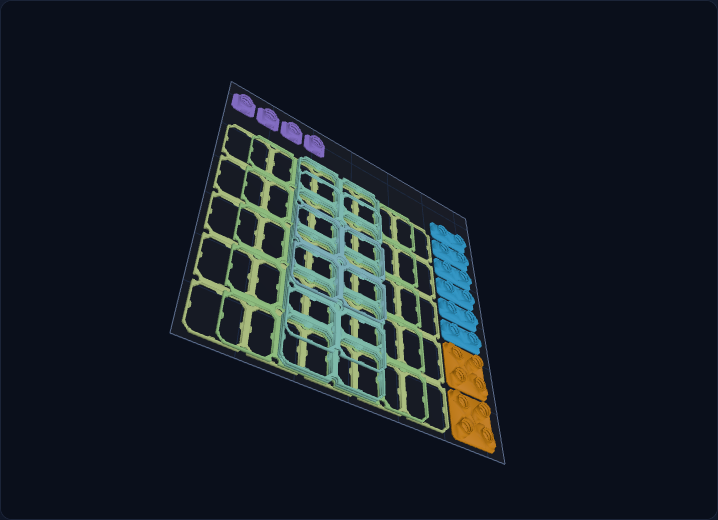
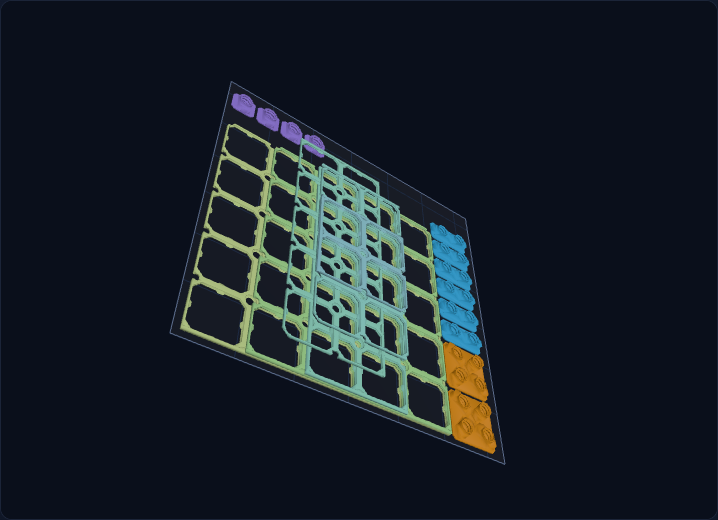
Align stacked plate grids on shared 50mm lattice and rotate non-square plates correctly

Changed region(s): [[0.2758, 0.2462, 0.6435, 0.8308], [0.2451, 0.6154, 0.3064, 0.6462]]

diff --git a/index.html b/index.html
@@ -1501,8 +1501,12 @@
     return layout.pieces.map(function (p, i) {
       return {
         id: i, a: p.w, b: p.h,
+        cw: p.w,
+        ch: p.h,
         w: p.ext ? p.ext.wmm : p.w * state.unit,
         h: p.ext ? p.ext.hmm : p.h * state.unit,
+        gx: p.ext ? p.ext.left : 0,
+        gy: p.ext ? p.ext.top : 0,
         piece: p,
         thickness: PLATE_THICKNESS[state.type] || 6.2,
         fixed: !!p.ext
@@ -1510,15 +1514,14 @@
     });
   }
 
-  function stackFit(item, base, allowRotate) {
-    if (item.w <= base.w + 1e-6 && item.h <= base.h + 1e-6) return 0;
-    if (allowRotate && item.h <= base.w + 1e-6 && item.w <= base.h + 1e-6) return 1;
+  function stackFit(item, base) {
+    if (item.cw <= base.cw + 1e-6 && item.ch <= base.ch + 1e-6) return 0;
     return -1;
   }
 
   function buildStacks(items, allowRotate, maxHeight, gap) {
     const sorted = items.slice().sort(function (x, y) {
-      return (y.w * y.h - x.w * x.h) || (Math.max(y.w, y.h) - Math.max(x.w, x.h)) || (Math.min(y.w, y.h) - Math.min(x.w, x.h));
+      return (y.cw * y.ch - x.cw * x.ch) || (Math.max(y.cw, y.ch) - Math.max(x.cw, x.ch)) || (Math.min(y.cw, y.ch) - Math.min(x.cw, x.ch));
     });
     const stacks = [];
     for (let i = 0; i < sorted.length; i++) {
@@ -1526,10 +1529,13 @@
       let placed = false;
       for (let si = 0; si < stacks.length; si++) {
         const stack = stacks[si];
-        const rot = stackFit(item, stack, allowRotate);
-        if (rot < 0) continue;
+        if (stackFit(item, stack) < 0) continue;
         if (maxHeight && stack.height + gap + item.thickness > maxHeight + 1e-6) continue;
-        stack.items.push({ item: item, rot: rot });
+        const oxCells = Math.round((stack.cw - item.cw) / 2);
+        const oyCells = Math.round((stack.ch - item.ch) / 2);
+        const dx = (stack.base.gx + oxCells * state.unit) - item.gx;
+        const dy = (stack.base.gy + oyCells * state.unit) - item.gy;
+        stack.items.push({ item: item, rot: 0, dx: dx, dy: dy });
         stack.height += gap + item.thickness;
         placed = true;
         break;
@@ -1540,10 +1546,12 @@
       }
       stacks.push({
         base: item,
+        cw: item.cw,
+        ch: item.ch,
         w: item.w,
         h: item.h,
         height: item.thickness,
-        items: [{ item: item, rot: 0 }]
+        items: [{ item: item, rot: 0, dx: 0, dy: 0 }]
       });
     }
     return { stacks: stacks };
@@ -1796,12 +1804,20 @@
       notice += " Grille remplie au maximum : le jeu réel (" + round1(Math.min(layout.leftoverW, layout.leftoverD)) + " mm) est inférieur au jeu demandé (" + round1(state.clearance) + " mm).";
     }
     if (stackCount) {
-      notice += " Empilement : " + stackCount + " pile" + (stackCount > 1 ? "s" : "") + ", espacement " + round1(state.stackGap) + " mm. Active l'ironing des surfaces supérieures dans Orca/Bambu.";
+      notice += " Empilement : " + stackCount + " pile" + (stackCount > 1 ? "s" : "") + ", espacement " + round1(state.stackGap) + " mm, grilles alignées sur la même trame de 50 mm. Active l'ironing des surfaces supérieures dans Orca/Bambu.";
     }
     el.notice.textContent = notice;
   }
 
   let threeViewer = null;
+
+  function meshRotFor(entry, w, h) {
+    const nw = entry.bbox.max[0] - entry.bbox.min[0];
+    const nh = entry.bbox.max[1] - entry.bbox.min[1];
+    if (Math.abs(nw - w) <= 1.5 && Math.abs(nh - h) <= 1.5) return 0;
+    if (Math.abs(nh - w) <= 1.5 && Math.abs(nw - h) <= 1.5) return 1;
+    return 0;
+  }
 
   async function render3D() {
     if (!lastResult || !lastResult.ok) { toast("Configure d'abord le tiroir"); return; }
@@ -1915,14 +1931,14 @@
           bin.items.forEach(function (it) {
             if (it.item.stack) {
               const stack = it.item.stack;
-              const tx = state.bedMargin + it.x + it.w / 2;
-              const ty = state.bedMargin + it.y + it.h / 2;
               let z = 0;
               stack.items.forEach(function (pi) {
                 const piece = pi.item.piece;
                 const entry = piece.ext ? edgeMeshCache.get(edgeKey(piece)) : lib.get(sizeKey(piece.w, piece.h));
                 if (!entry) return;
-                const rot = pi.rot;
+                const rot = meshRotFor(entry, pi.item.w, pi.item.h);
+                const tx = state.bedMargin + it.x + (pi.dx || 0) + pi.item.w / 2;
+                const ty = state.bedMargin + it.y + (pi.dy || 0) + pi.item.h / 2;
                 addRotatedMesh(plateGeometry(entry), plateMaterial(piece.w, piece.h), entry.bbox, tx, ty, z, rot);
                 z += (entry.bbox.max[2] - entry.bbox.min[2]) + state.stackGap;
               });
@@ -1946,15 +1962,13 @@
           if (!entry) return;
           const geo = plateGeometry(entry);
           const material = plateMaterial(p.w, p.h);
-          const mesh = new THREE.Mesh(geo, material);
           const bb = entry.bbox;
-          const cx = (bb.min[0] + bb.max[0]) / 2;
-          const cy = (bb.min[1] + bb.max[1]) / 2;
-          const tx = p.ext ? p.ext.xmm + p.ext.wmm / 2 : lastResult.offX + p.x * state.unit + p.w * state.unit / 2;
-          const ty = p.ext ? p.ext.ymm + p.ext.hmm / 2 : lastResult.offY + p.y * state.unit + p.h * state.unit / 2;
-          mesh.position.set(tx - cx, ty - cy, -bb.min[2]);
+          const plateW = p.ext ? p.ext.wmm : p.w * state.unit;
+          const plateH = p.ext ? p.ext.hmm : p.h * state.unit;
+          const tx = p.ext ? p.ext.xmm + plateW / 2 : lastResult.offX + p.x * state.unit + p.w * state.unit / 2;
+          const ty = p.ext ? p.ext.ymm + plateH / 2 : lastResult.offY + p.y * state.unit + p.h * state.unit / 2;
+          addRotatedMesh(geo, material, bb, tx, ty, 0, meshRotFor(entry, plateW, plateH));
           plateTop = Math.max(plateTop, bb.max[2] - bb.min[2]);
-          scene.add(mesh);
         });
 
         if (hasClips) {
@@ -2478,19 +2492,15 @@
               meshIndex.set(key, meshes.length + 1);
               meshes.push({ key: key, entry: entry });
             }
-            const rot = pi.rot ? 1 : 0;
-            const instW = rot ? pi.item.h : pi.item.w;
-            const instH = rot ? pi.item.w : pi.item.h;
             instances.push({
               bin: binIndex,
-              x: baseX + (baseW - instW) / 2,
-              y: baseY + (baseH - instH) / 2,
-              w: instW,
-              h: instH,
+              x: baseX + (pi.dx || 0),
+              y: baseY + (pi.dy || 0),
+              w: pi.item.w,
+              h: pi.item.h,
               entry: entry,
               mesh: meshIndex.get(key),
               ext: !!piece.ext,
-              rotExplicit: rot,
               zOffset: stackZ,
               label: (piece.ext ? baseKey + " + bord" : baseKey) + " · pile " + (layerIndex + 1) + "/" + stack.items.length,
               wid: 2 + instanceId * 2,
@@ -2578,7 +2588,6 @@
 
       let rot = 0;
       if (inst.rotExplicit !== undefined) rot = inst.rotExplicit;
-      else if (inst.ext) rot = 0;
       else if (Math.abs(nativeW - inst.w) <= 1.5 && Math.abs(nativeH - inst.h) <= 1.5) rot = 0;
       else if (Math.abs(nativeH - inst.w) <= 1.5 && Math.abs(nativeW - inst.h) <= 1.5) rot = 1;
       else rot = nativeW > nativeH && inst.w < inst.h ? 1 : 0;

diff --git a/README.md b/README.md
@@ -22,7 +22,7 @@ Je précise que j'aime le système MultiBuild/MultiBoard et que ce n'est **pas u
 - Aperçu 2D avec le motif réel, les dimensions et les bords.
 - **Aperçu 3D** des maillages STL réels dans l'app (rotation/zoom), sans passer par Orca.
 - **Clips adhésifs S** (VHB Bolt-Lock) : choix « Aucun clip » / « Clips adhésifs S », comptage automatique **Quad / Dual / Single** aux angles des plaques, repères dans l'aperçu 2D, maillages réels dans la 3D, et ajout automatique sur les plateaux d'impression.
-- **Empilement « Ironing Stack »** : les plaques sont empilées dans le 3MF, la plus grande en bas, les plus petites au-dessus, avec un **espacement réglable (0,2 mm par défaut)**. Le slicer fait le reste ; active l'ironing des surfaces supérieures.
+- **Empilement « Ironing Stack »** : les plaques sont empilées dans le 3MF, la plus grande en bas, les plus petites au-dessus, avec un **espacement réglable (0,2 mm par défaut)**. Les **origines de grille sont alignées sur la même trame de 50 mm** (pas un simple centrage) pour que les trous coïncident, et les plaques non carrées sont tournées dans le bon sens. Le slicer fait le reste ; active l'ironing des surfaces supérieures.
 - Export **3MF projet multi-plateaux** Bambu Studio / OrcaSlicer.
 - Export CSV et copie de la liste.
 - Chargement automatique des plaques depuis un serveur local : pas d'import manuel.
